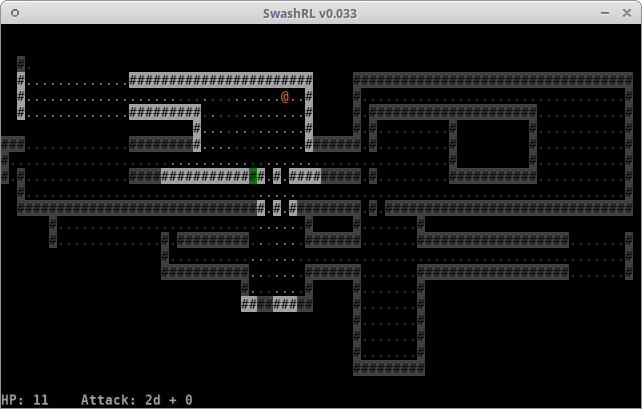
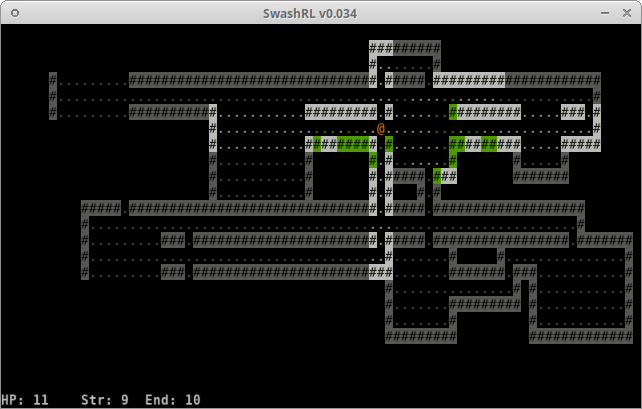
update the screenshot in the readme.
I needed a fresh screenshot, so I took a screen from 0.034-e7620ed and
added it to the readme.  A small description has also been added to
clarify the context of the screenshot.

diff --git a/README.md b/README.md
@@ -1,12 +1,13 @@
 SwashRL
 =======
 
-Readme file, last updated 2021-01-28 22:18 CST  
+Readme file, last updated 2021-03-30 19:28 CDT  
 Contact the maintainer: <swashdev@pm.me>
 
 ---
 
-![A typical game of SwashRL on startup](docs/images/screenshot.png)
+![A typical game of SwashRL in progress](docs/images/screenshot.png)  
+_version 0.034-e7620ed on a typical map, partially explored_
 
 SwashRL is a Roguelike game currently in the early development phases.  The
 actual "game" part is not yet functional, as it's still in need of a few
